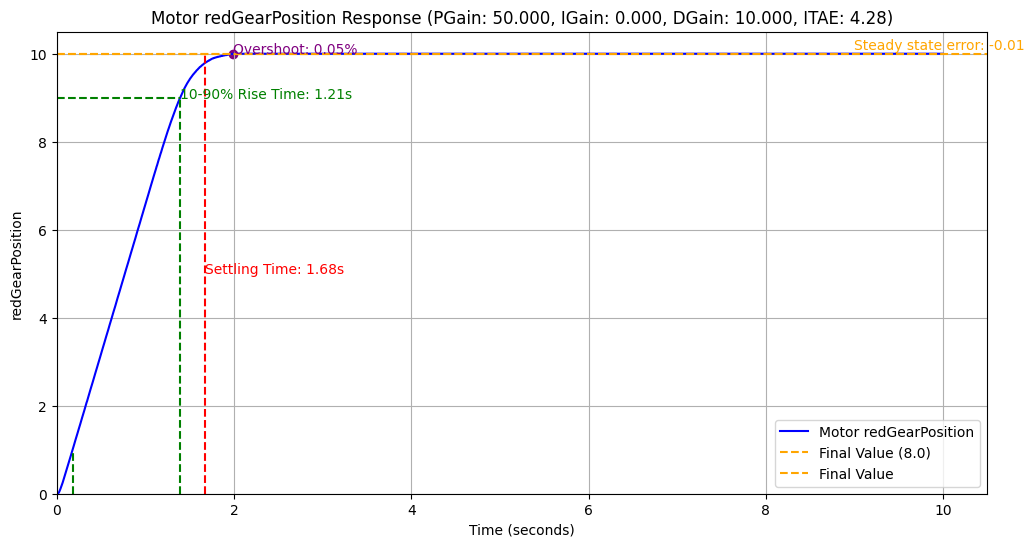
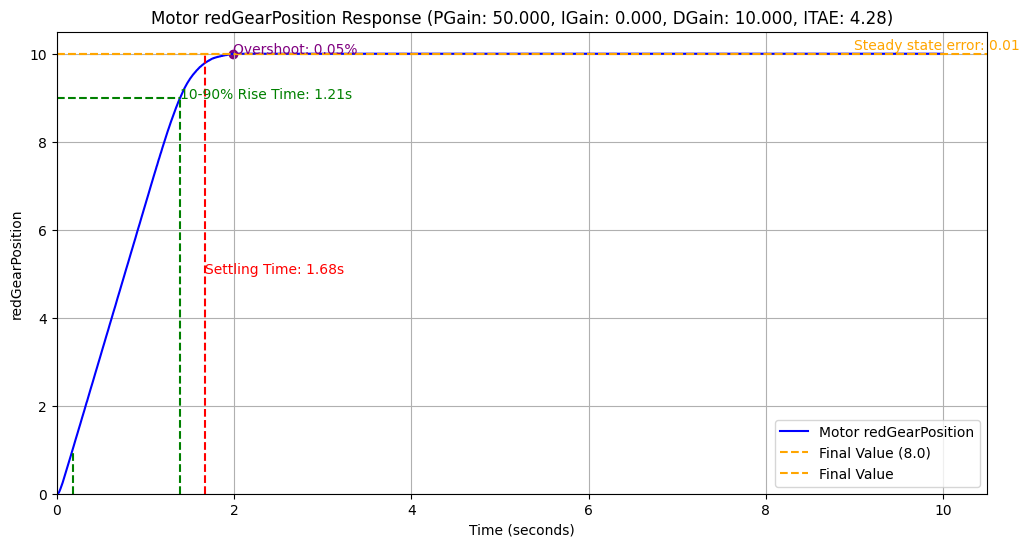
last

diff --git a/project1_dataplot saveall copy.py b/project1_dataplot saveall copy.py
@@ -10,7 +10,7 @@ input_value = 10.0
 TOLERANCE = 0.02
 
 # Get a list of all CSV files in the `./csv` directory
-csv_files = [f for f in os.listdir('./csv/PGAIN') if f.endswith('.csv')]
+csv_files = [f for f in os.listdir('./csv/IGAIN') if f.endswith('.csv')]
 
 # Extract the gains from the file name using regular expressions
 for file_name in csv_files:
@@ -21,8 +21,8 @@ for file_name in csv_files:
     print(file_name)
 
     # Set file paths
-    file_path = f'./csv/PGAIN/{file_name}'
-    graph_img_path = f"./graph_img/PGAIN/{pgain}_{igain}_{dgain}_response.png"
+    file_path = f'./csv/IGAIN/{file_name}'
+    graph_img_path = f"./graph_img/IGAIN/{pgain}_{igain}_{dgain}_response.png"
 
     # Read the data and ITAE value from the CSV
     data = pd.read_csv(file_path, header=None, names=['Time', 'redGearPosition'], skipfooter=1, engine='python')
@@ -36,8 +36,7 @@ for file_name in csv_files:
     rise_time = S['RiseTime']
     peak_time = S['PeakTime']
     settling_time = S['SettlingTime']
-    steady_state_error = input_value - steady_state_value
-    print(steady_state_error)
+    steady_state_error = steady_state_value - input_value
     
     # Calculate the rise time (10% to 90% of the final value)
     rise_time_start = data['Time'][data['redGearPosition'] >= 0.1 * input_value].iloc[0]
